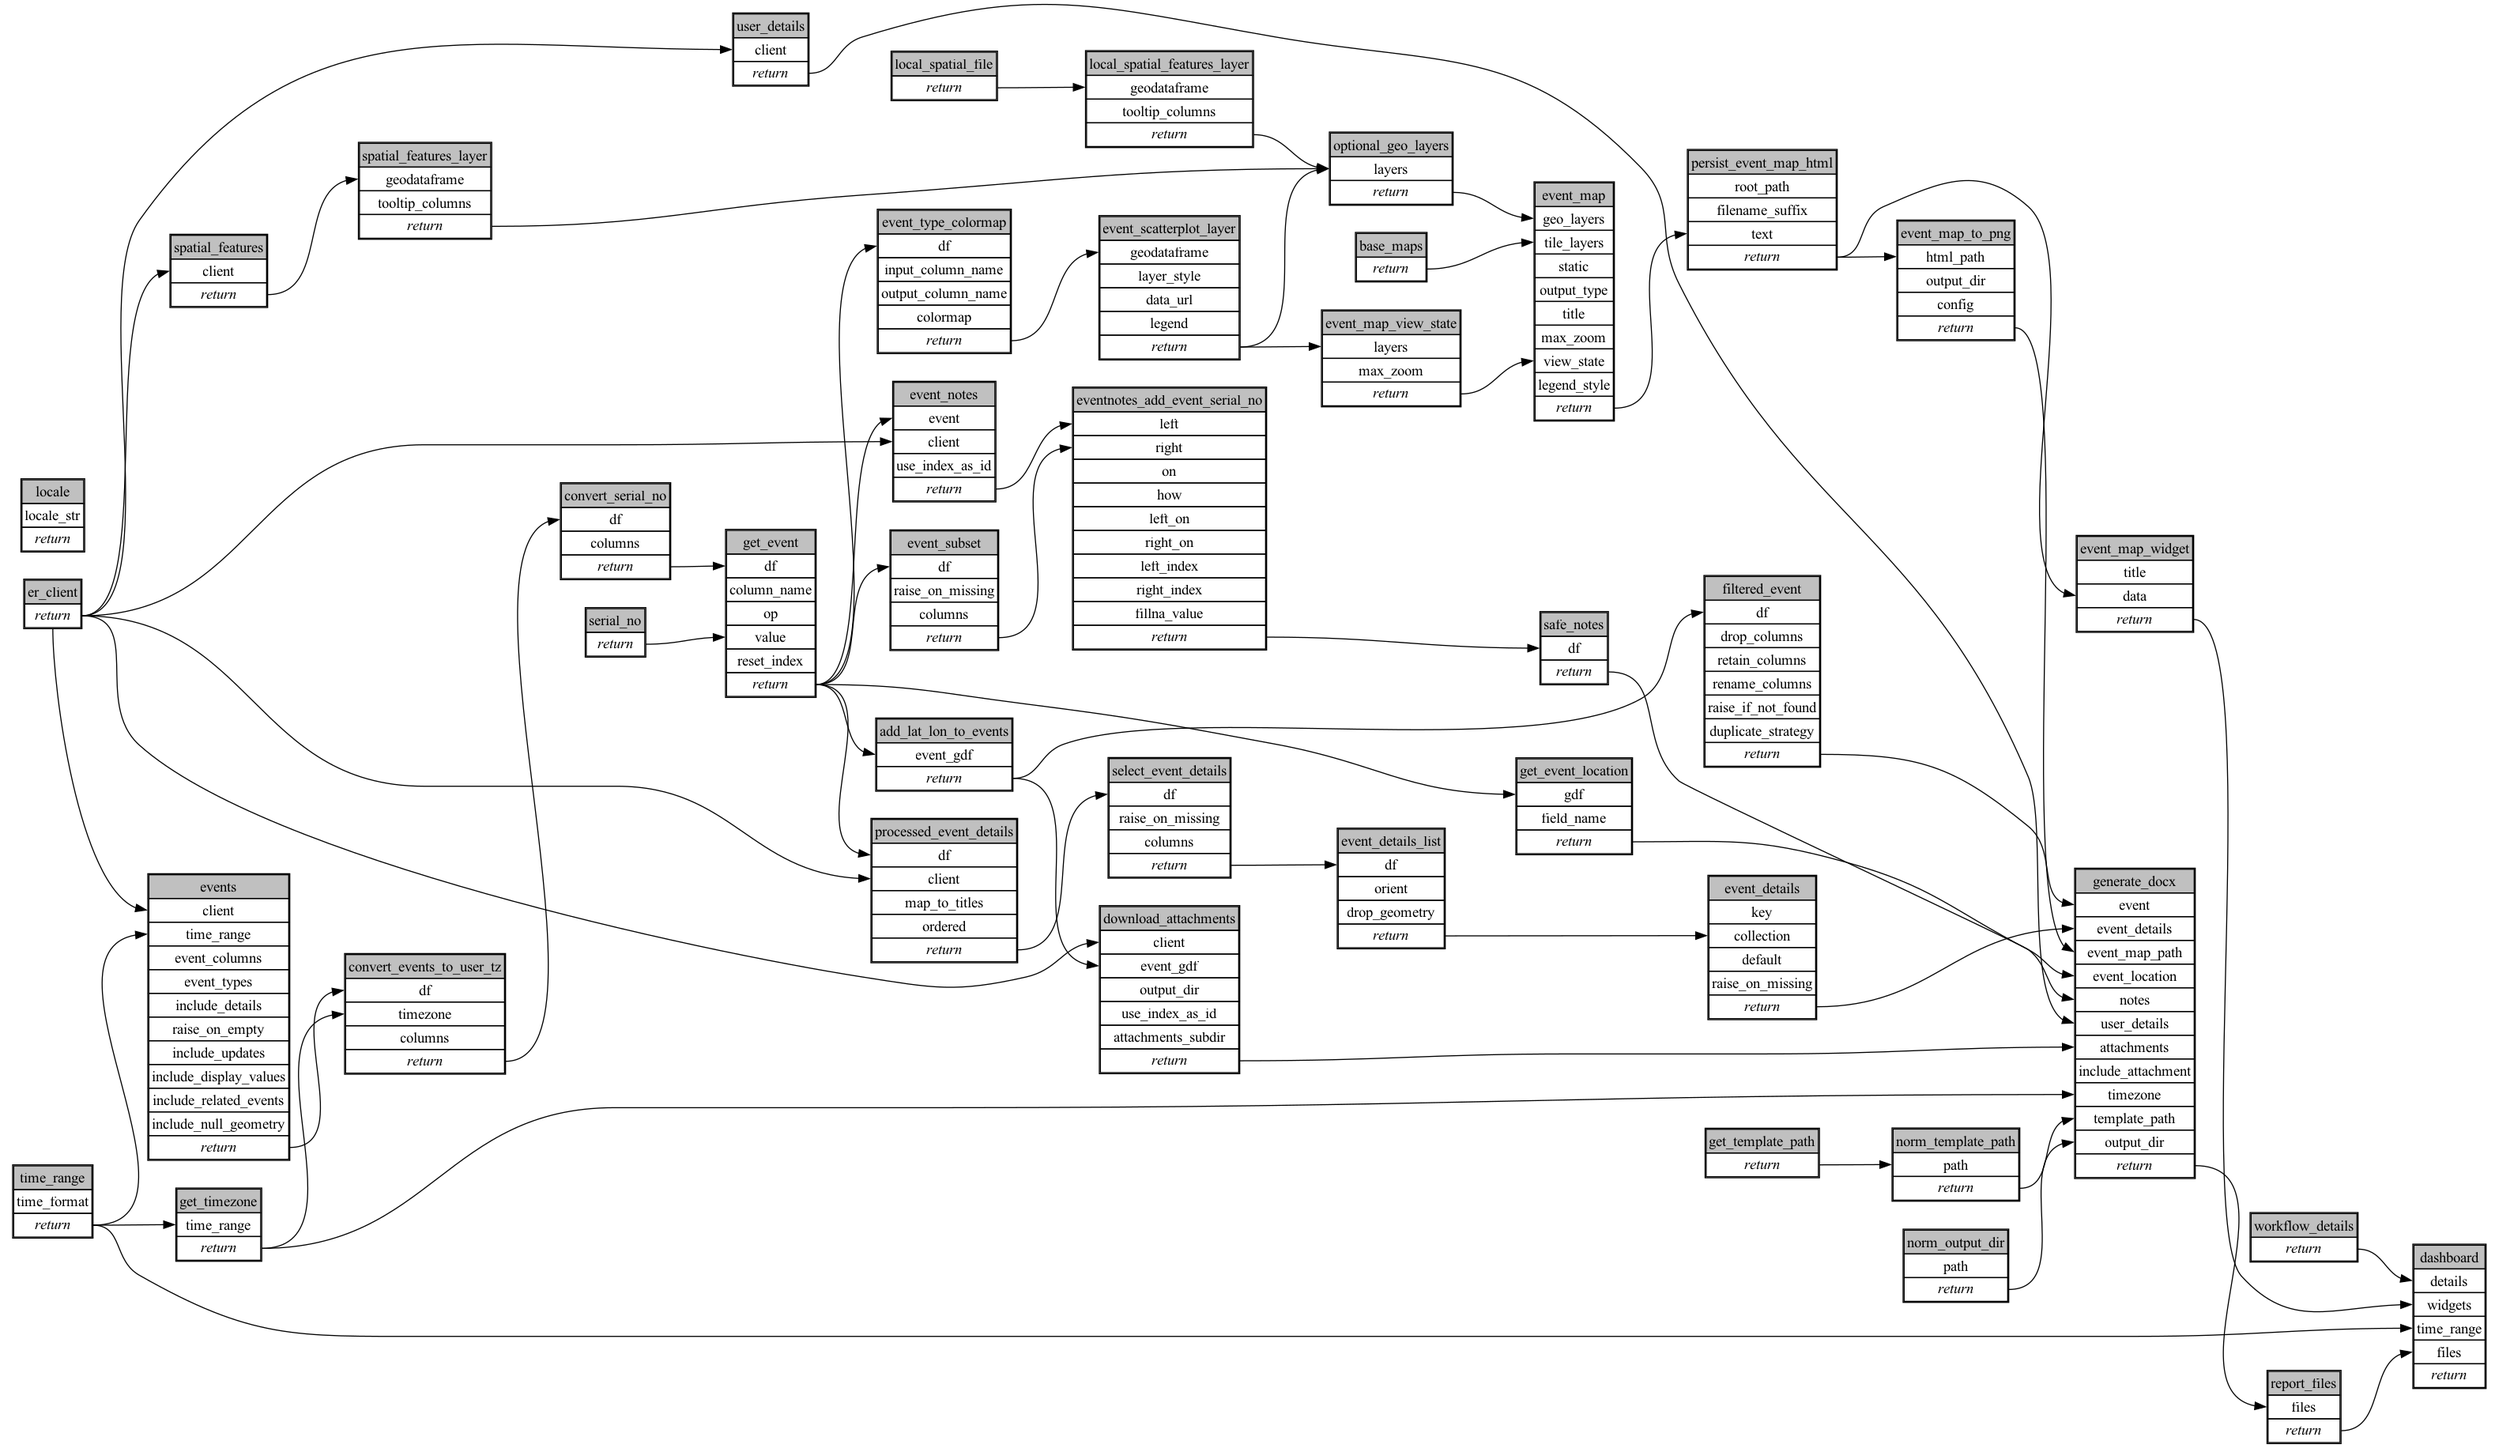
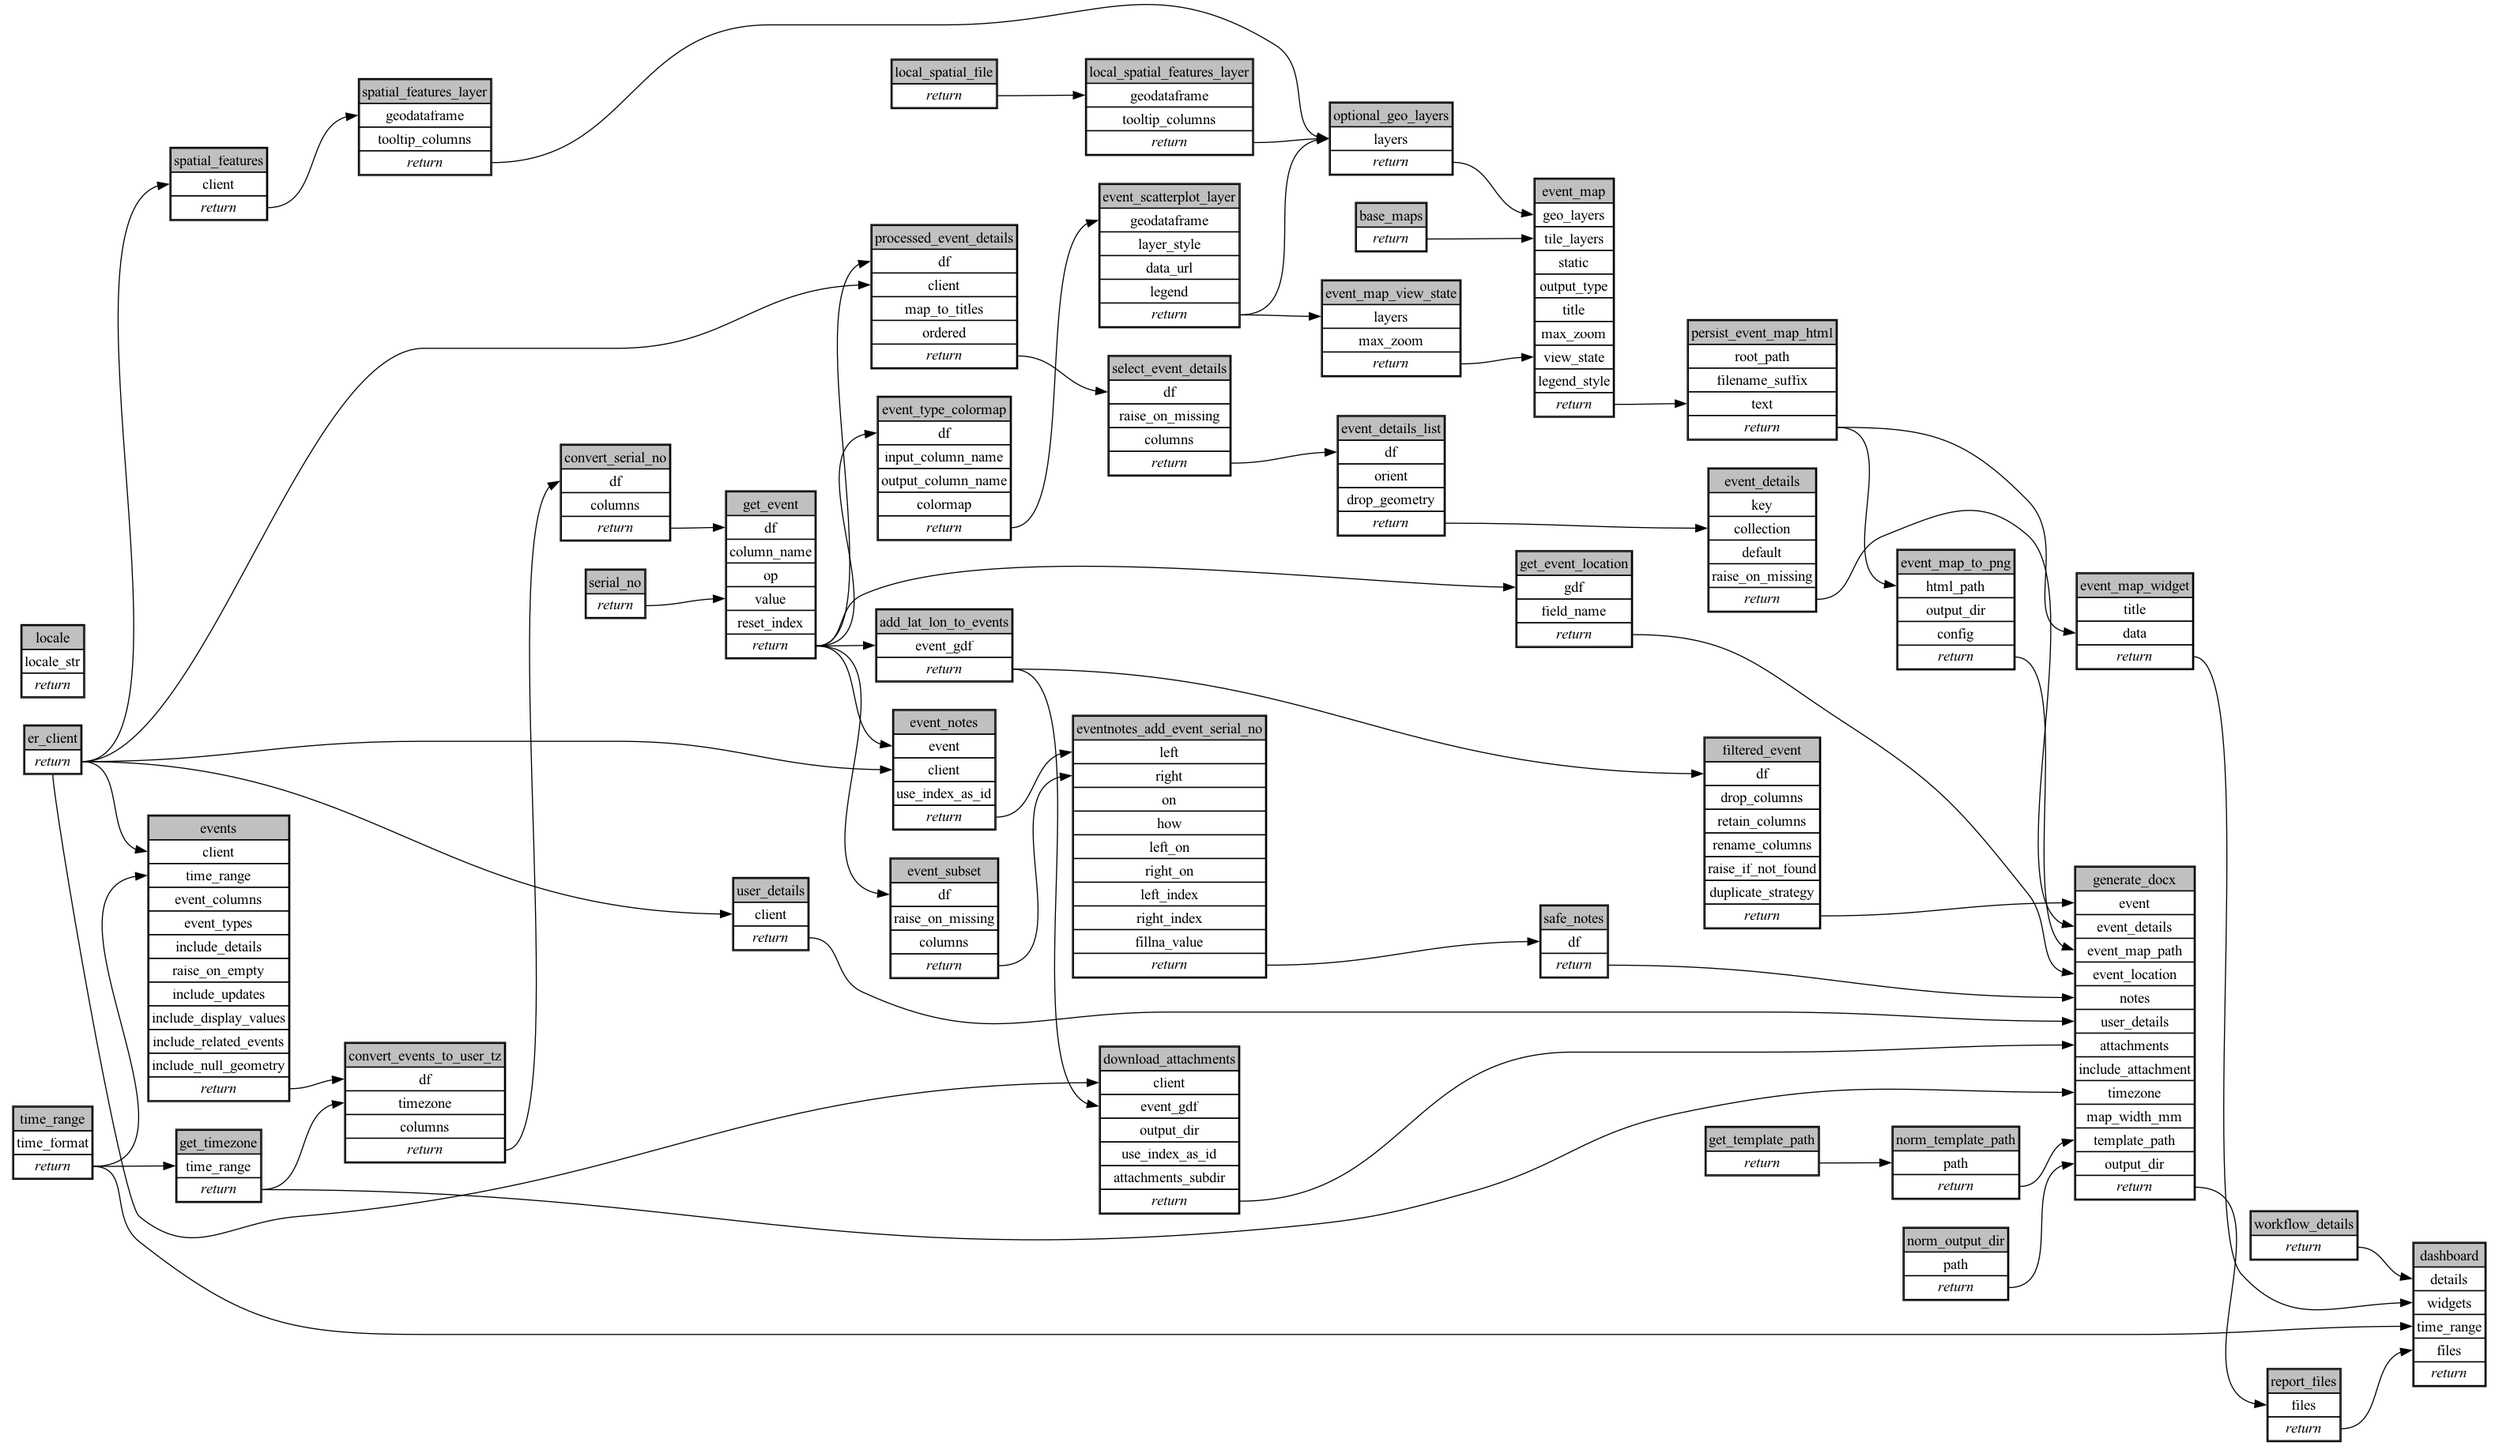
Set table, sort and map settings in the spec partial, not the config form

diff --git a/ecoscope-workflows-individual-event-workflow/ecoscope_workflows_individual_event_workflow/dags/run_sequential.py b/ecoscope-workflows-individual-event-workflow/ecoscope_workflows_individual_event_workflow/dags/run_sequential.py
@@ -952,6 +952,7 @@ def main(params: dict[str, Any], validate_params_schema: bool = True):
             attachments=download_attachments,
             include_attachment=True,
             timezone=get_timezone,
+            map_width_mm=150,
             template_path=norm_template_path,
             output_dir=norm_output_dir,
             **(params.get("generate_docx") or {}),

diff --git a/ecoscope-workflows-individual-event-workflow/ecoscope_workflows_individual_event_workflow/dags/run_sequential_mock_io.py b/ecoscope-workflows-individual-event-workflow/ecoscope_workflows_individual_event_workflow/dags/run_sequential_mock_io.py
@@ -973,6 +973,7 @@ def main(params: dict[str, Any], validate_params_schema: bool = True):
             attachments=download_attachments,
             include_attachment=True,
             timezone=get_timezone,
+            map_width_mm=150,
             template_path=norm_template_path,
             output_dir=norm_output_dir,
             **(params.get("generate_docx") or {}),

diff --git a/ecoscope-workflows-individual-event-workflow/README.md b/ecoscope-workflows-individual-event-workflow/README.md
@@ -5,8 +5,8 @@
 
 ```yaml
 # fingerprint:
-artifacts_sha256_basic: 00367bda5def9800eede0510c31109b75090620375ee7bf6e96ae1a49ae8b8a9
-artifacts_sha256_strict: 8543547d10c37afbead059effdde428cadfc46fa78f08906ec82c2c2f3fe505c
+artifacts_sha256_basic: 6030f928df1c4ce2ef228af63d6752aa10756108785909255a87f7f2295f85e1
+artifacts_sha256_strict: 0d0e6dc7399821edb310bae8fae8338a477d45ac13ca7bc7fa0799c1c5315931
 installed_requirements:
 - channel: https://repo.prefix.dev/ecoscope-workflows/
   name: ecoscope-platform
@@ -20,8 +20,8 @@ installed_requirements:
 - channel: https://repo.prefix.dev/ecoscope-workflows-custom/
   name: ecoscope-workflows-ext-apn
   version: {version: ==0.0.33}
-params_sha256: 01eef27549fdcdb4d087d954dd6204364ee2d0043b758bd91699eb99717f8a6f
-spec_sha256: 4fd85f5ac7497a4fa23b803c5644a22befadf1b1b990f21c2b7c645f1ee8381b
+params_sha256: 2e173eb38ed4521c56112af0185944c9e0d43f3e633b2cbf1c44d3692775f773
+spec_sha256: 28a6e2b7ff76e4c6b0df7a074c6ae9fc11f38e6f1aabe7937b42bbcdd007d577
 
 ```
 
